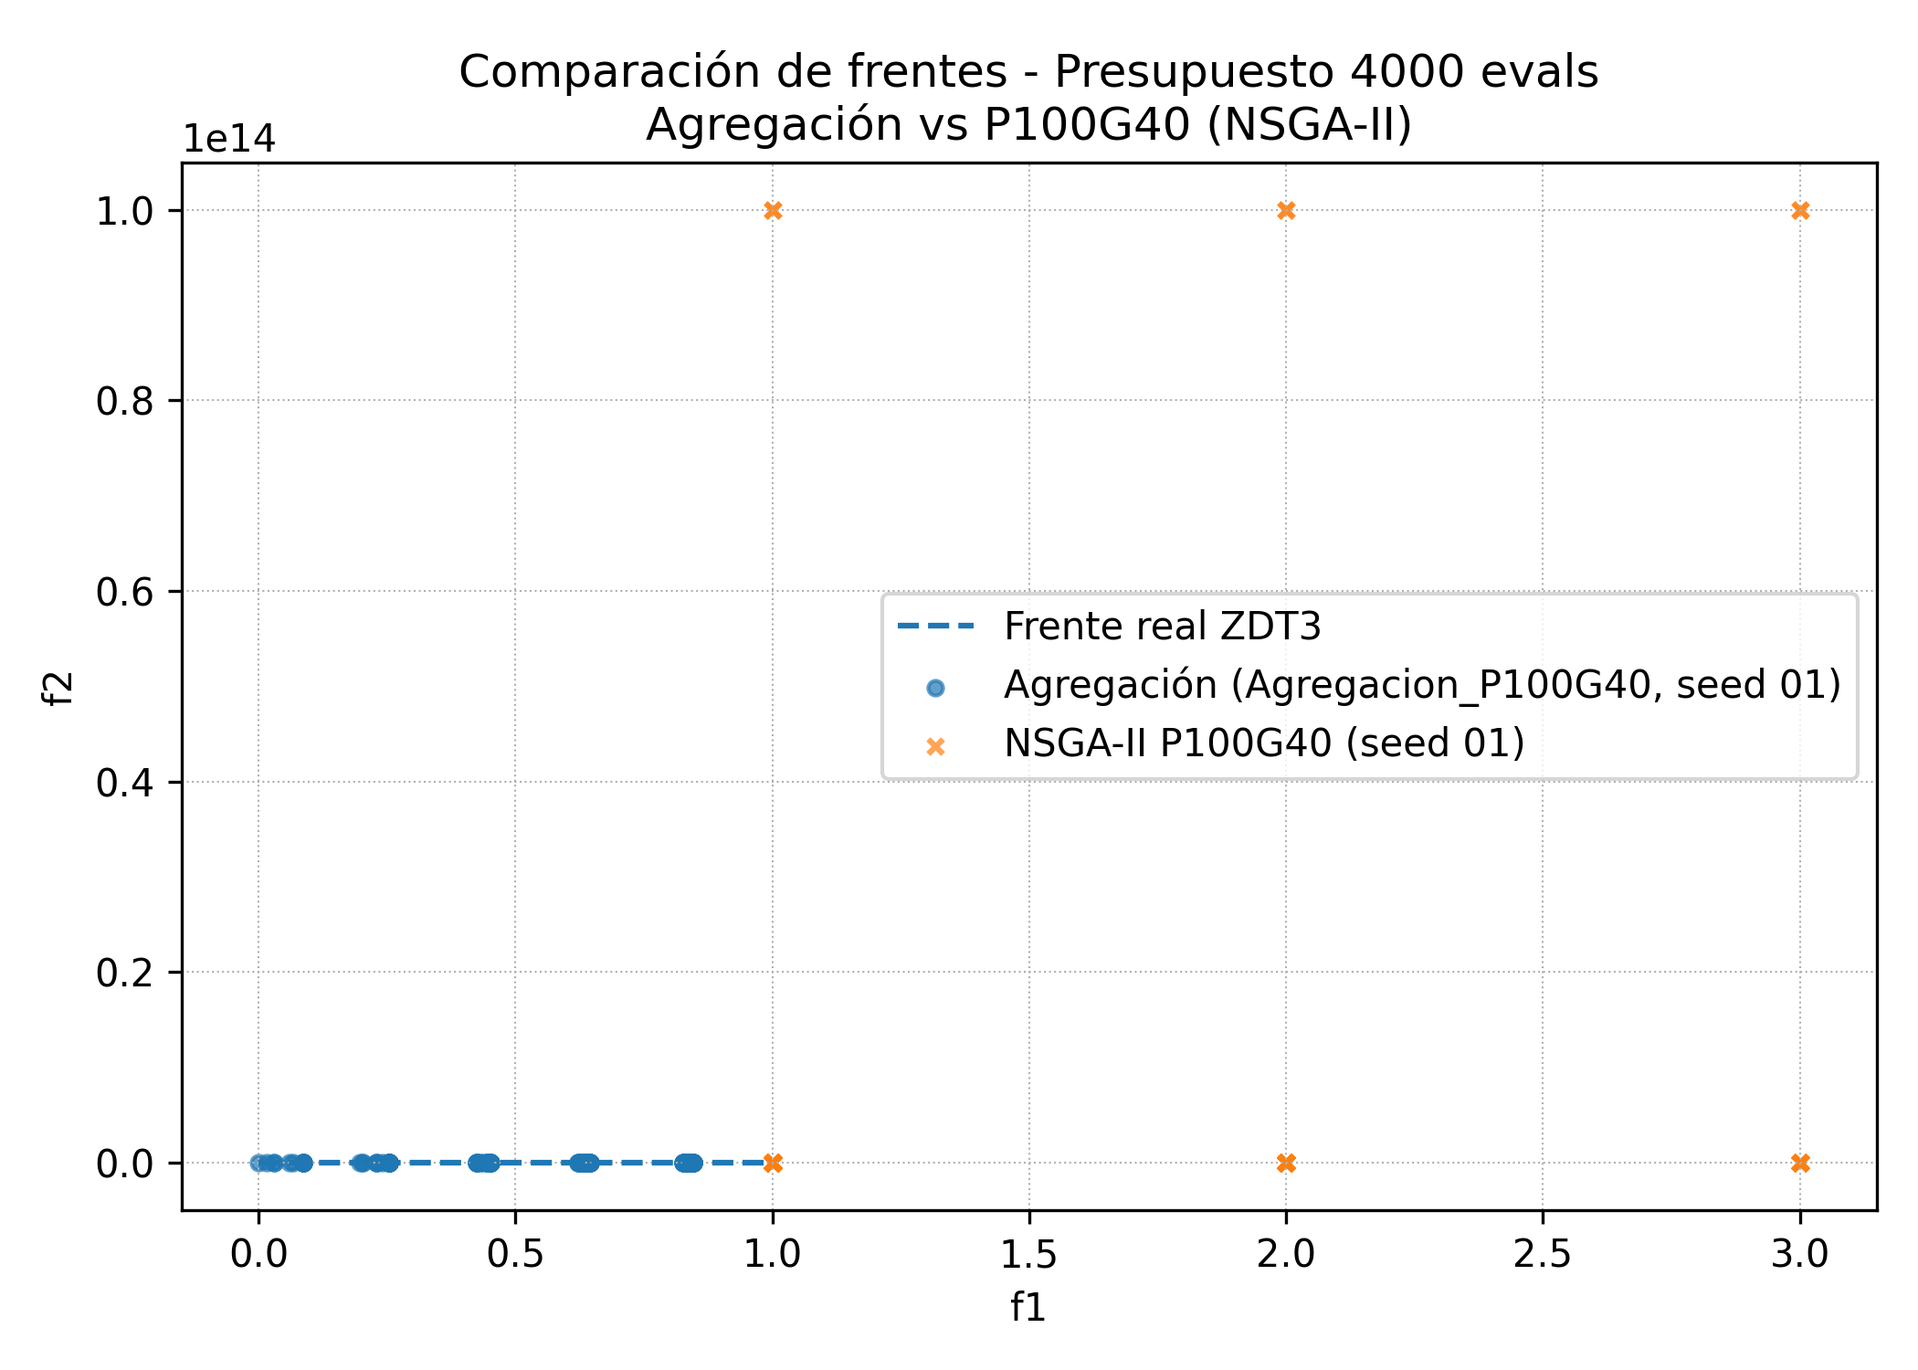
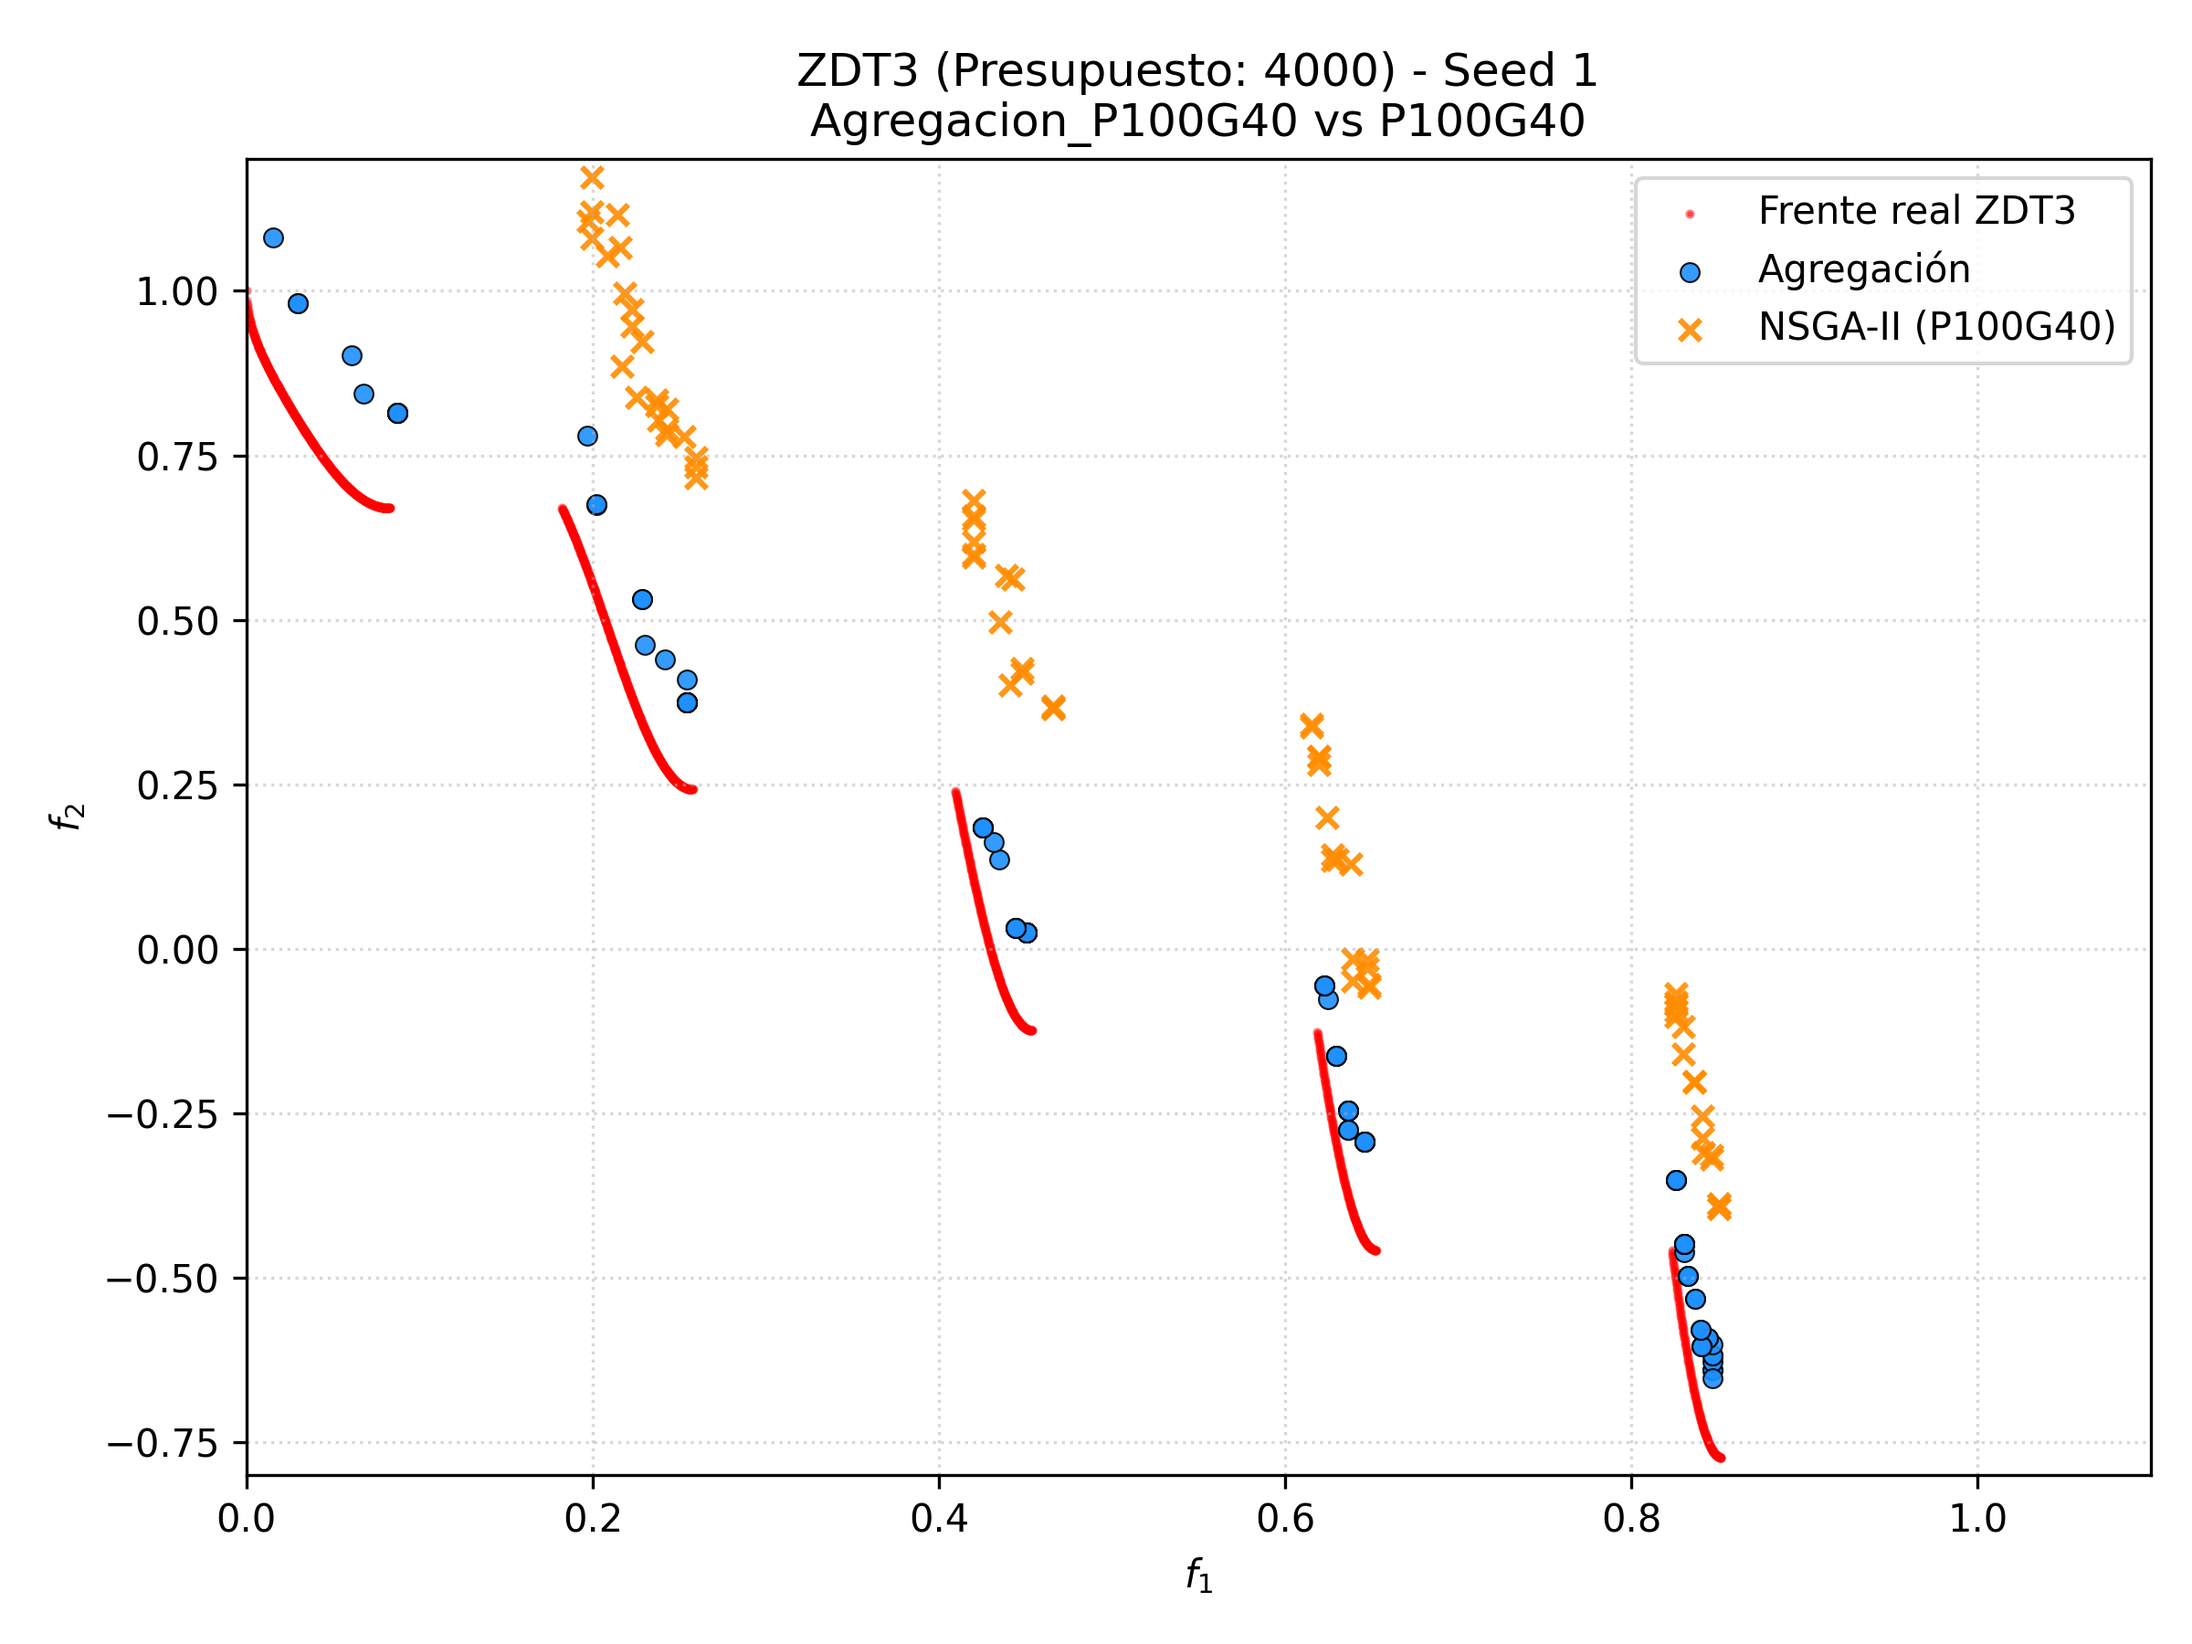
Generacion de graficas funcionado

Changed region(s): [[0.031, 0.0307, 0.9905, 0.9813], [0.619, 0.736, 0.65, 0.7667], [0.0, 0.4907, 0.031, 0.5213]]

diff --git a/plot_fronts_compare.py b/plot_fronts_compare.py
@@ -1,30 +1,20 @@
-# plot_fronts_compare.py
-import numpy as np
-import matplotlib.pyplot as plt
 from pathlib import Path
+
+import matplotlib.pyplot as plt
+import numpy as np
 
 # ---------------- CONFIGURACIÓN ----------------
 
-# Seed que quieres usar para las gráficas (puedes cambiarla)
 SEED_TO_PLOT = 1
 
-# Directorios base (coinciden con lo que hemos usado en los otros scripts)
 AGG_BASE = Path("results") / "ZDT3"
 NSGA_BASE = Path("nsga2")
 
-# Agregación: una config por presupuesto
 AGG_CONFIGS = {
-    4000: {
-        "name": "Agregacion_P100G40",
-        "dir": AGG_BASE / "P100G40",
-    },
-    10000: {
-        "name": "Agregacion_P100G100",
-        "dir": AGG_BASE / "P100G100",
-    },
+    4000:  {"name": "Agregacion_P100G40",  "dir": AGG_BASE / "P100G40"},
+    10000: {"name": "Agregacion_P100G100", "dir": AGG_BASE / "P100G100"},
 }
 
-# Configs NSGA-II (como las tienes en EV)
 NSGA_CONFIGS = {
     4000: [
         {"name": "P40G100", "N": 40, "G": 100},
@@ -38,7 +28,6 @@ NSGA_CONFIGS = {
     ],
 }
 
-# Carpeta donde se guardarán las figuras
 FIG_DIR = Path("figures")
 FIG_DIR.mkdir(exist_ok=True)
 
@@ -46,100 +35,95 @@ FIG_DIR.mkdir(exist_ok=True)
 # ---------------- UTILIDADES ----------------
 
 def load_front_agg(agg_dir: Path, seed: int) -> np.ndarray:
-    """
-    Carga el frente de tu algoritmo (final_pop_seedXX.txt).
-    Devuelve un array (N, 2) con [f1, f2].
-    """
     fname = agg_dir / f"final_pop_seed{seed:02d}.txt"
-    data = np.loadtxt(fname)
-    return data[:, -2:]
+    if not fname.exists():
+        raise FileNotFoundError(f"Falta fichero: {fname}")
+    # Formato Agregación: Vars(30) + Objs(2). Las últimas 2 son los objetivos.
+    return np.loadtxt(fname)[:, -2:]
 
 
 def load_front_nsga(budget: int, cfg: dict, seed: int) -> np.ndarray:
-    """
-    Carga frente de NSGA-II desde archivos tipo:
-    nsga2/ZDT3_4000/P40G100/zdt3_final_popp40g100_seed01.out
-    """
-    N = cfg["N"]
-    G = cfg["G"]
+    N, G = cfg["N"], cfg["G"]
     tag = f"p{N}g{G}".lower()
-
     dir_path = NSGA_BASE / f"ZDT3_{budget}" / cfg["name"]
     fname = dir_path / f"zdt3_final_pop{tag}_seed{seed:02d}.out"
+    if not fname.exists():
+        raise FileNotFoundError(f"Falta fichero NSGA: {fname}")
+    
     data = np.loadtxt(fname)
-    return data[:, -2:]
+
+    return data[:, 0:2]
 
 
-def generate_zdt3_true_front(num_points: int = 1000) -> np.ndarray:
-    """
-    Genera una aproximación del frente real de ZDT3 (g=1).
-    f1 = x
-    f2 = 1 - sqrt(x) - x * sin(10*pi*x)
-    El frente es discontinuo, pero para visualizar basta con muestrear denso.
-    """
+def generate_zdt3_true_front(num_points: int = 5000) -> np.ndarray:
+    """Genera frente real discontinuo ZDT3 filtrando dominados visualmente."""
     x = np.linspace(0.0, 1.0, num_points)
     f1 = x
     f2 = 1.0 - np.sqrt(x) - x * np.sin(10.0 * np.pi * x)
-    return np.vstack([f1, f2]).T
+    points = np.vstack([f1, f2]).T
+    
+    # Filtro simple para limpiar las partes dominadas de la onda
+    clean_points = []
+    points = points[np.argsort(points[:, 0])] # Ordenar por f1
+    
+    for i, p in enumerate(points):
+        # Si un punto tiene un vecino a la izquierda con f2 mucho menor, es dominado (parte alta de la onda)
+        # Una heurística rápida para ZDT3 es verificar si hay puntos con f1 menor y f2 menor.
+        if np.any((points[:,0] <= p[0]) & (points[:,1] < p[1])):
+             continue
+        clean_points.append(p)
+    return np.array(clean_points)
 
 
 def plot_single_config(budget: int, nsga_cfg: dict, seed: int):
-    """
-    Genera una figura con:
-    - Frente real de ZDT3
-    - Agregación (para el presupuesto correspondiente)
-    - NSGA-II (config específica)
-    """
     agg_cfg = AGG_CONFIGS[budget]
-    agg_dir = agg_cfg["dir"]
+    
+    try:
+        F_agg = load_front_agg(agg_cfg["dir"], seed)
+        F_nsga = load_front_nsga(budget, nsga_cfg, seed)
+    except FileNotFoundError as e:
+        print(f"[SKIP] {e}")
+        return
 
-    # Cargar frentes
     F_true = generate_zdt3_true_front()
-    F_agg = load_front_agg(agg_dir, seed)
-    F_nsga = load_front_nsga(budget, nsga_cfg, seed)
 
-    # Figura
-    plt.figure(figsize=(7, 5))
+    plt.figure(figsize=(8, 6))
 
-    # Frente real
-    plt.plot(F_true[:, 0], F_true[:, 1],
-             linestyle='--', linewidth=1.5, label="Frente real ZDT3")
+    # 1. Frente Real (Puntos rojos pequeños)
+    plt.scatter(F_true[:, 0], F_true[:, 1], s=2, c='red', alpha=0.5, label="Frente real ZDT3")
 
-    # Agregación
-    plt.scatter(F_agg[:, 0], F_agg[:, 1],
-                s=15, marker='o', alpha=0.7, label=f"Agregación ({agg_cfg['name']}, seed {seed:02d})")
+    # 2. Agregación (Puntos azules)
+    plt.scatter(F_agg[:, 0], F_agg[:, 1], s=25, c='dodgerblue', marker='o', 
+                edgecolors='k', linewidth=0.5, alpha=0.9, label="Agregación")
 
-    # NSGA-II
-    plt.scatter(F_nsga[:, 0], F_nsga[:, 1],
-                s=15, marker='x', alpha=0.7, label=f"NSGA-II {nsga_cfg['name']} (seed {seed:02d})")
+    # 3. NSGA-II (Cruces naranjas)
+    plt.scatter(F_nsga[:, 0], F_nsga[:, 1], s=30, c='darkorange', marker='x', 
+                linewidth=1.5, alpha=0.9, label=f"NSGA-II ({nsga_cfg['name']})")
 
-    plt.xlabel("f1")
-    plt.ylabel("f2")
-    plt.title(f"Comparación de frentes - Presupuesto {budget} evals\nAgregación vs {nsga_cfg['name']} (NSGA-II)")
-    plt.grid(True, linestyle=':', linewidth=0.5)
+    plt.xlabel("$f_1$")
+    plt.ylabel("$f_2$")
+    plt.title(f"ZDT3 (Presupuesto: {budget}) - Seed {seed}\n{agg_cfg['name']} vs {nsga_cfg['name']}")
+    
+    # Escala ajustada a la región de interés del Frente ZDT3
+    plt.xlim(0.0, 1.1)
+    plt.ylim(-0.8, 1.2) # Ajustado para ZDT3 (f2 baja hasta -0.7 aprox)
+    
+    plt.grid(True, linestyle=':', alpha=0.5)
     plt.legend()
 
-    # Guardar figura
     out_name = f"front_budget{budget}_{agg_cfg['name']}_vs_{nsga_cfg['name']}_seed{seed:02d}.png"
     out_path = FIG_DIR / out_name
     plt.tight_layout()
     plt.savefig(out_path, dpi=300)
     plt.close()
-
-    print(f"[OK] Guardada figura: {out_path}")
+    print(f"Generado: {out_name}")
 
 
 def plot_all():
     for budget in [4000, 10000]:
-        print("\n" + "=" * 70)
-        print(f"Generando figuras para presupuesto {budget} evaluaciones (seed={SEED_TO_PLOT})")
-        print("=" * 70)
-
+        print(f"\n--- Presupuesto {budget} ---")
         for nsga_cfg in NSGA_CONFIGS[budget]:
-            try:
-                plot_single_config(budget, nsga_cfg, SEED_TO_PLOT)
-            except OSError as e:
-                print(f"[AVISO] No se ha podido generar figura para {nsga_cfg['name']}: {e}")
+            plot_single_config(budget, nsga_cfg, SEED_TO_PLOT)
 
 
 if __name__ == "__main__":
